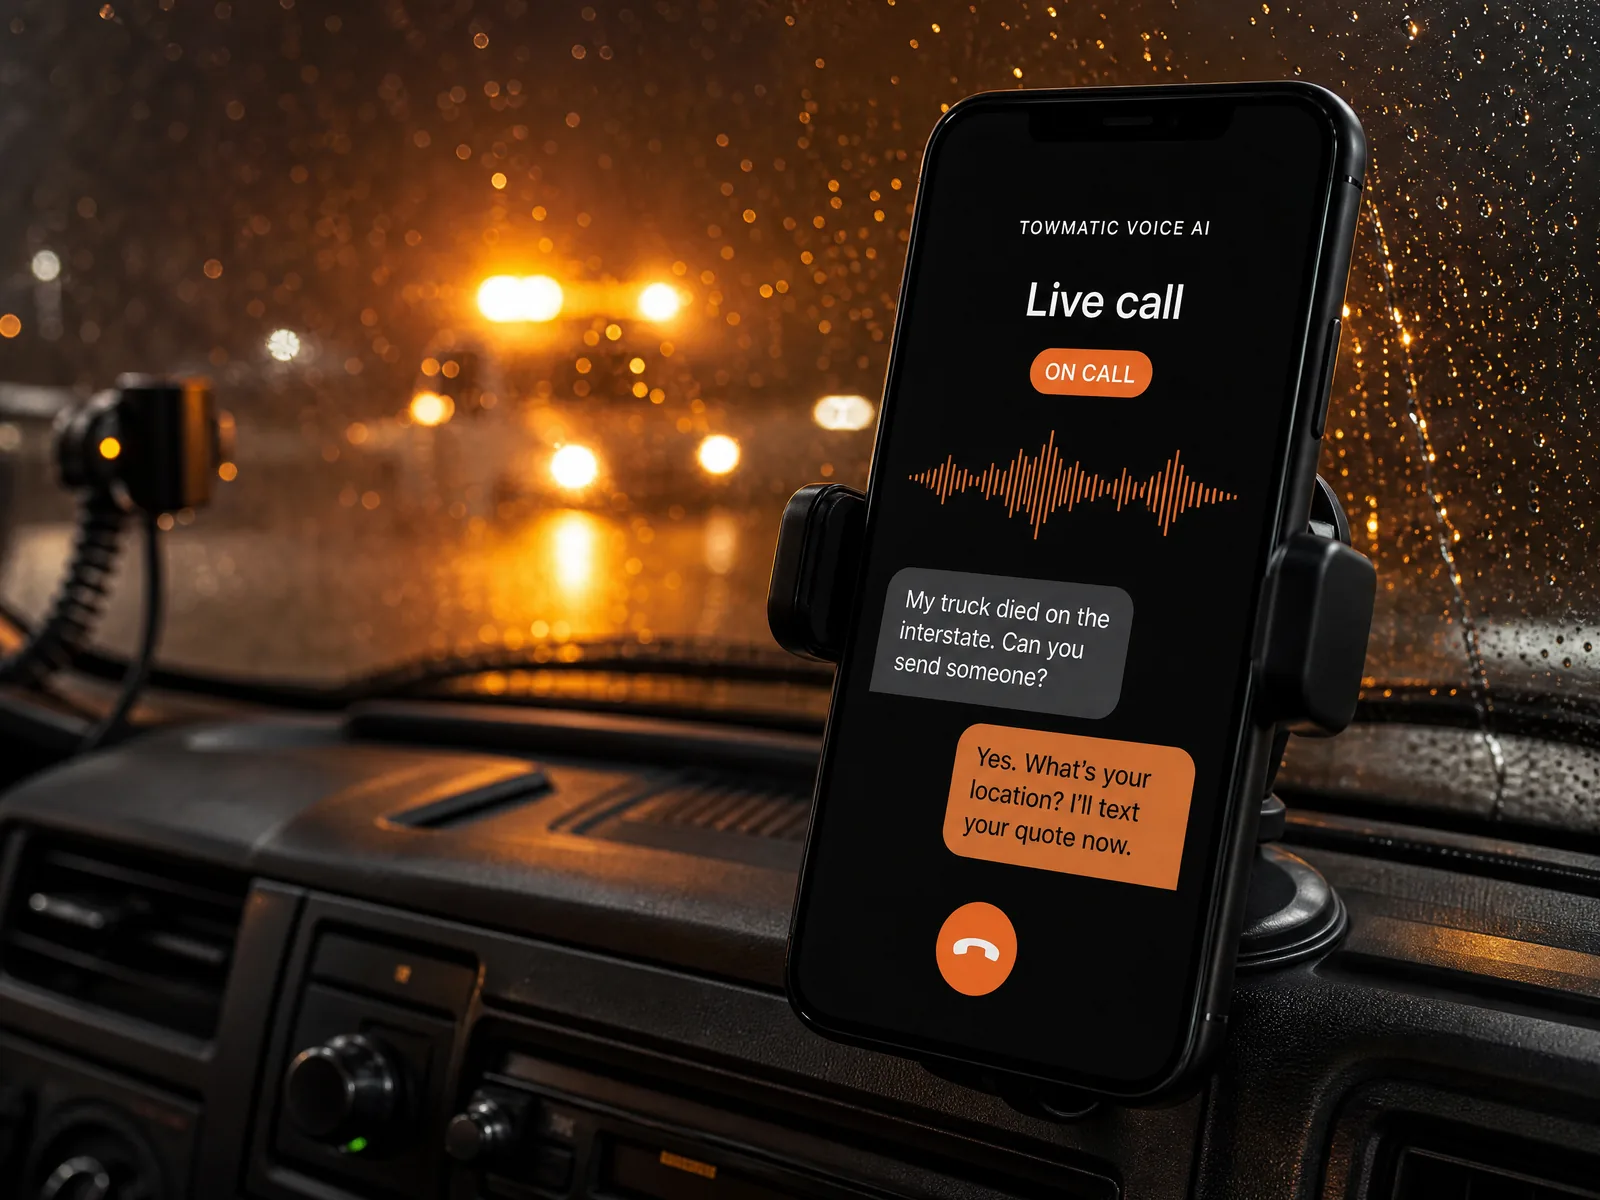
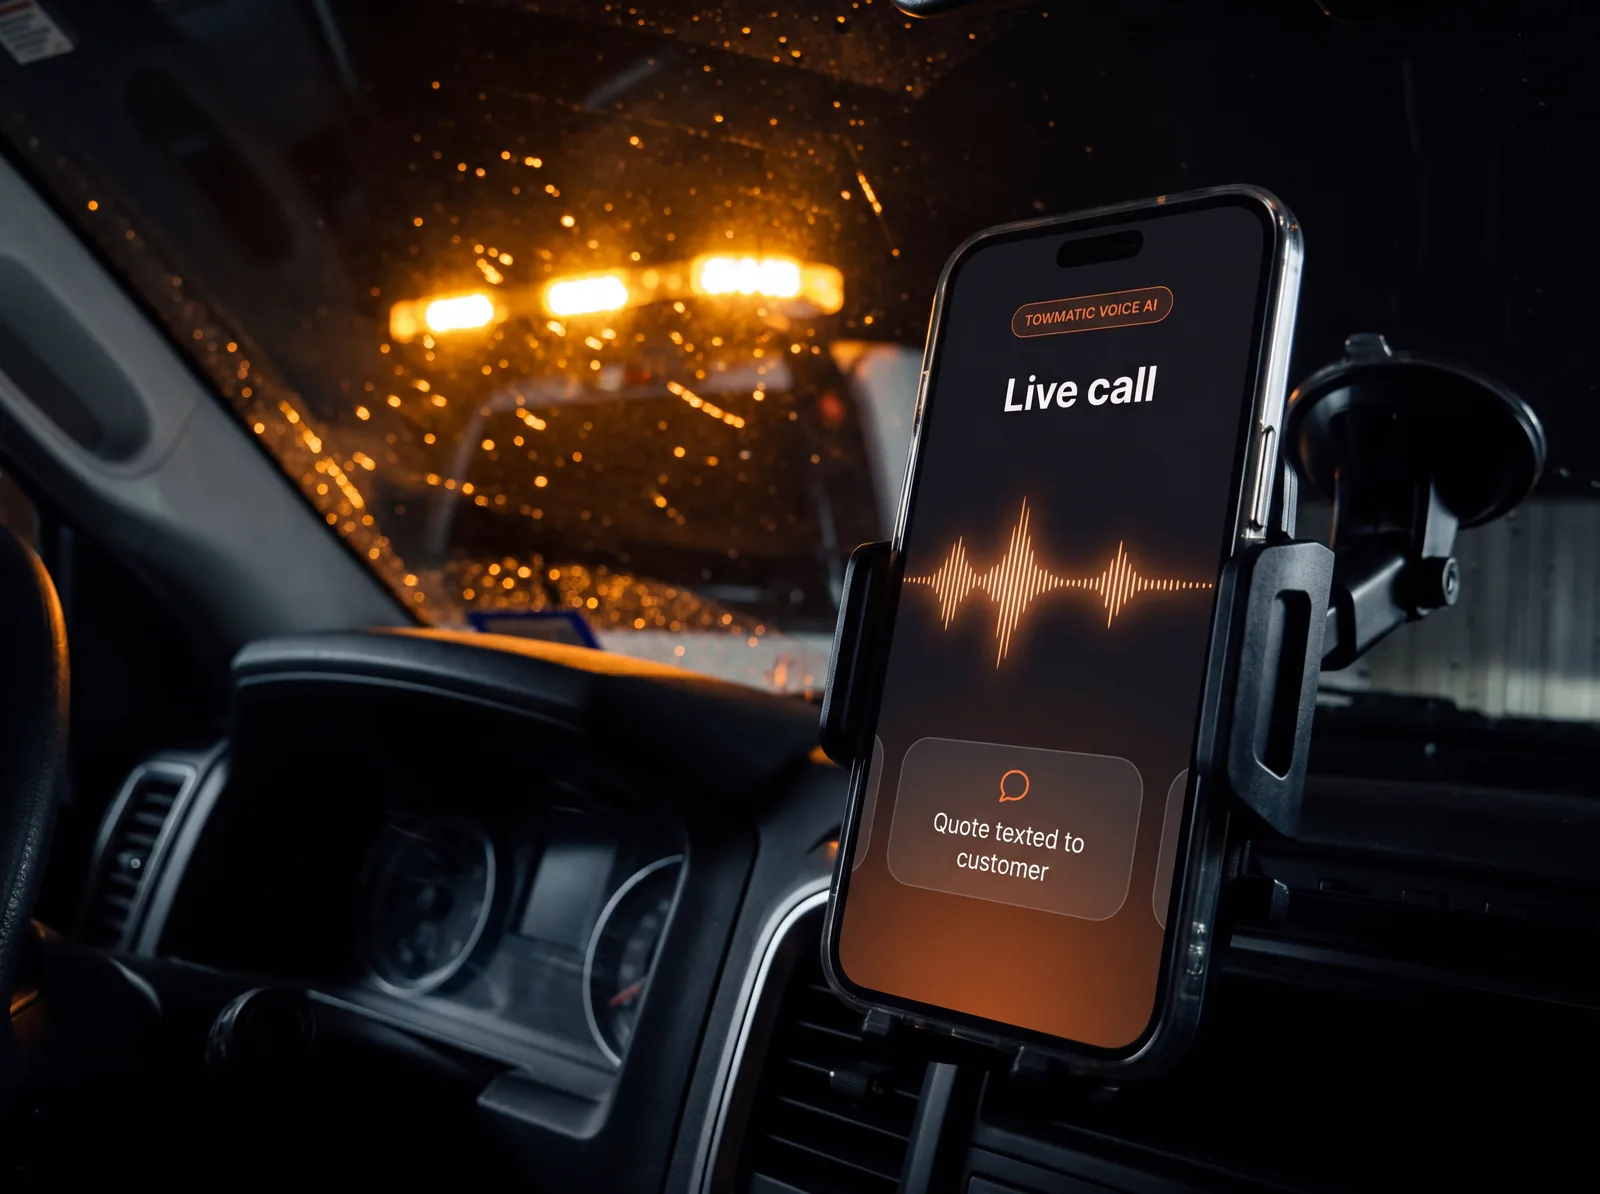
Regenerate homepage tab photos with nano-banana-pro
More realistic photography with less, larger on-screen text so every
word on the phones is legible. Alt text updated to match.

Claude-Session: https://claude.ai/code/session_01QozjXnkBDgD25Ken8NMvP1

diff --git a/website/index.html b/website/index.html
@@ -161,7 +161,7 @@
         <!-- Tab 1: Voice AI -->
         <div class="platform__panel" role="tabpanel" id="panel-voice" aria-labelledby="tab-voice" tabindex="0">
           <div class="platform__stage platform__stage--photo">
-            <img src="images/tab-voice.webp" alt="A phone on a tow truck dashboard at night showing a live Towmatic Voice AI call with a waveform and transcript" width="1600" height="1200" loading="lazy" decoding="async">
+            <img src="images/tab-voice.webp" alt="A phone on a tow truck dashboard at night showing a live Towmatic Voice AI call and a quote texted to the customer" width="1600" height="1200" loading="lazy" decoding="async">
           </div>
           <div class="platform__copy">
             <h3 class="platform__headline">Answers every call, even at 3AM.</h3>
@@ -179,7 +179,7 @@
         <!-- Tab 2: Instant Dispatch Forms -->
         <div class="platform__panel" role="tabpanel" id="panel-forms" aria-labelledby="tab-forms" tabindex="0" hidden>
           <div class="platform__stage platform__stage--photo">
-            <img src="images/tab-forms.webp" alt="A stranded driver holding a phone at night with a tow request form showing location shared and a Get my quote button" width="1600" height="1200" loading="lazy" decoding="async">
+            <img src="images/tab-forms.webp" alt="A stranded driver holding a phone at night showing a tow request with location shared and a Get my quote button" width="1600" height="1200" loading="lazy" decoding="async">
           </div>
           <div class="platform__copy">
             <h3 class="platform__headline">Book a tow without a phone call.</h3>
@@ -191,7 +191,7 @@
         <!-- Tab 3: Branded Customer App -->
         <div class="platform__panel" role="tabpanel" id="panel-app" aria-labelledby="tab-app" tabindex="0" hidden>
           <div class="platform__stage platform__stage--photo">
-            <img src="images/tab-app.webp" alt="A phone at a dealership service drive showing the Your Tow Co. app booking screen with saved details and a Book now button" width="1600" height="1200" loading="lazy" decoding="async">
+            <img src="images/tab-app.webp" alt="A phone at a dealership service bay showing the Your Tow Co. app with a saved vehicle and a Book now button" width="1600" height="1200" loading="lazy" decoding="async">
           </div>
           <div class="platform__copy">
             <h3 class="platform__headline">Your company, on their home screen.</h3>
@@ -203,7 +203,7 @@
         <!-- Tab 4: SmartDispatch -->
         <div class="platform__panel" role="tabpanel" id="panel-dispatch" aria-labelledby="tab-dispatch" tabindex="0" hidden>
           <div class="platform__stage platform__stage--photo">
-            <img src="images/tab-dispatch.webp" alt="A tow driver’s gloved hand holding a phone in the truck cab showing a new job card with a Confirm Dispatch button" width="1600" height="1200" loading="lazy" decoding="async">
+            <img src="images/tab-dispatch.webp" alt="A tow driver’s gloved hand holding a phone in the truck cab showing a new ASAP tow job and a Confirm Dispatch button" width="1600" height="1200" loading="lazy" decoding="async">
           </div>
           <div class="platform__copy">
             <h3 class="platform__headline">Your driver rotation, run automatically.</h3>
